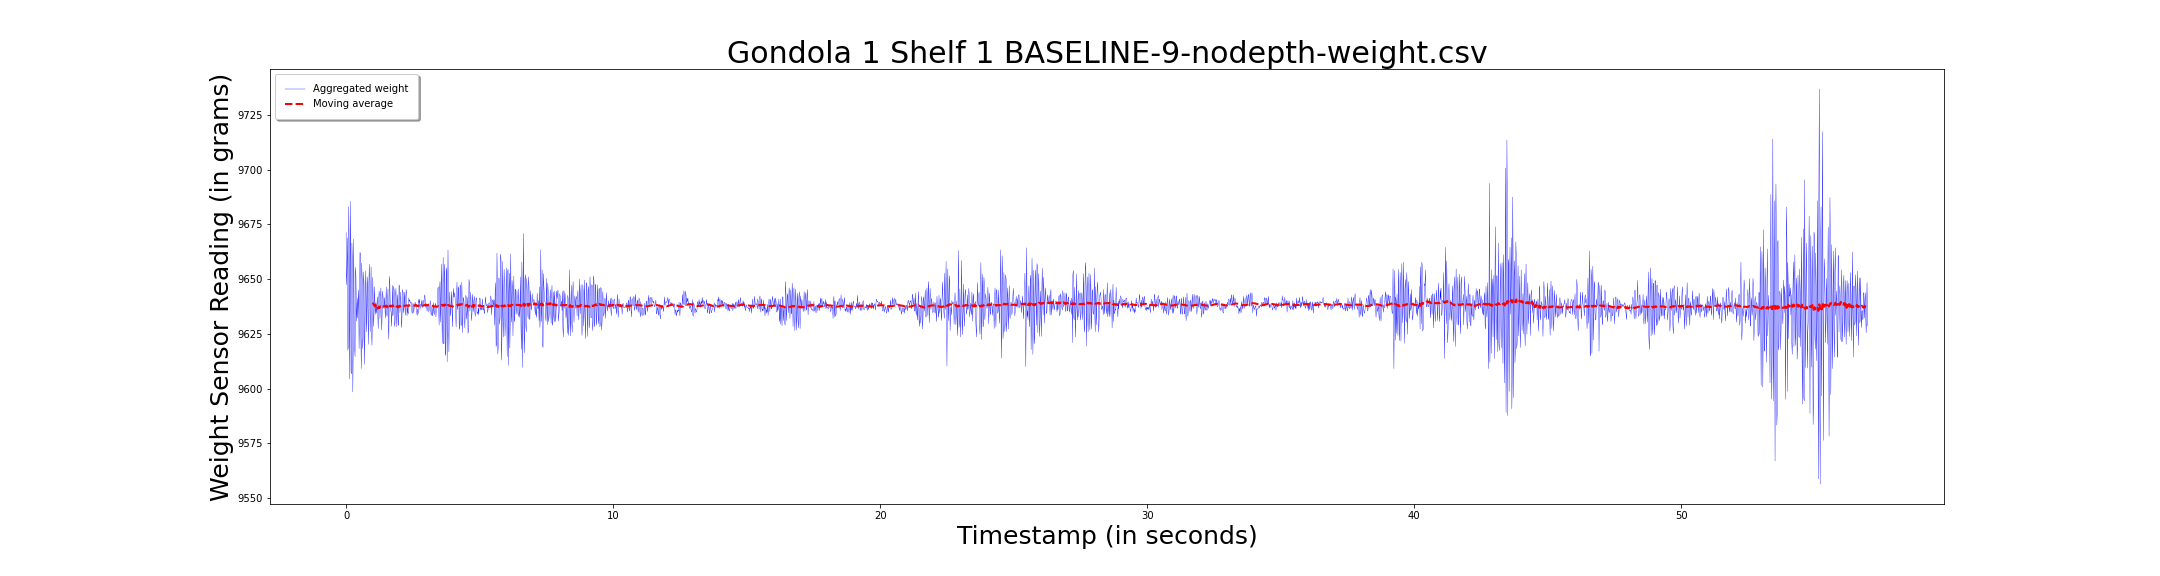
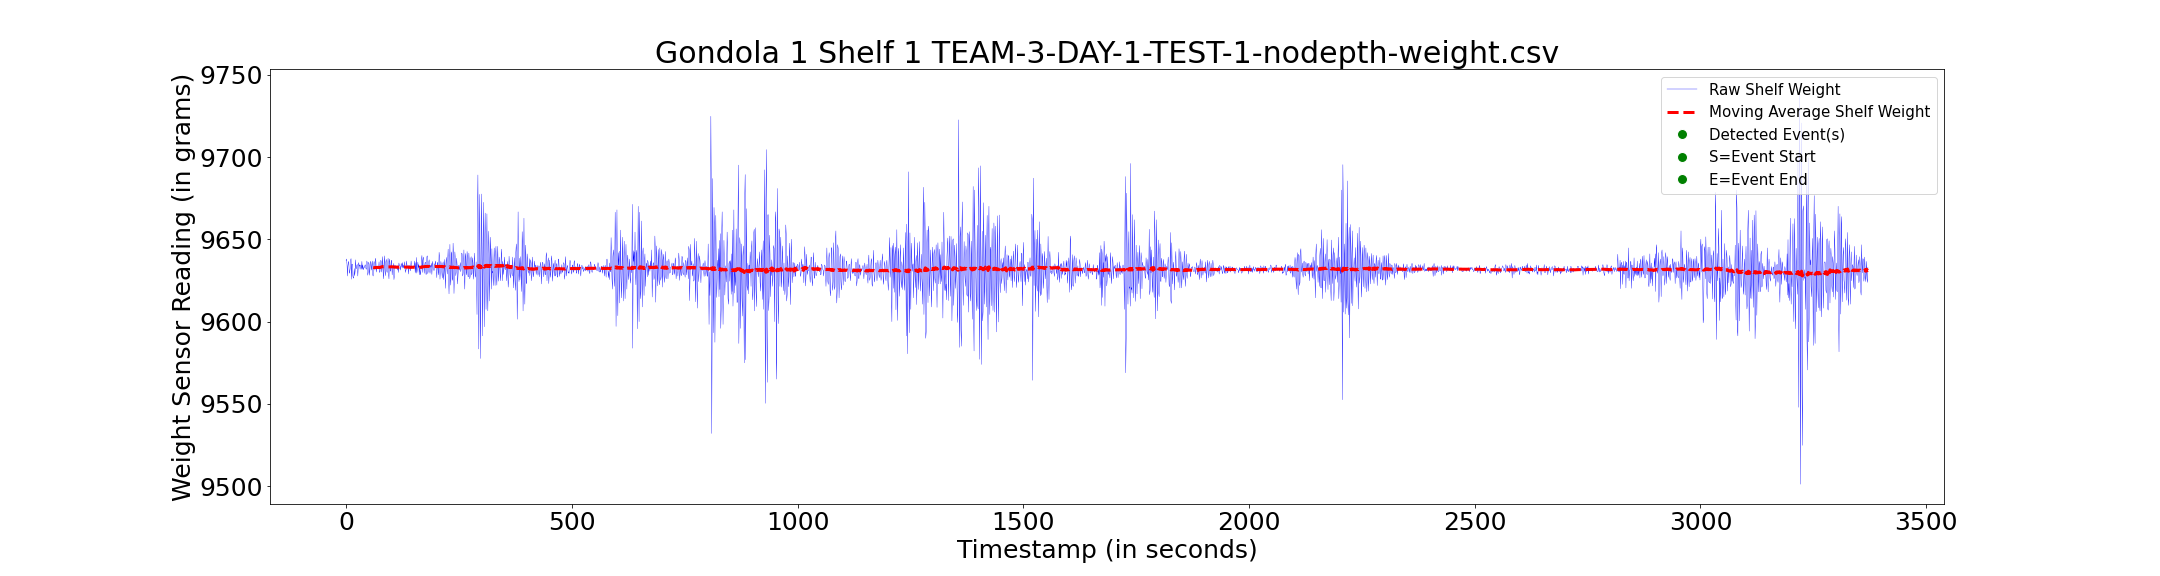
Updates

diff --git a/Plot.py b/Plot.py
@@ -1,7 +1,7 @@
 #!/usr/bin/env python
 # coding: utf-8
 
-# In[ ]:
+# In[1]:
 
 
 #Import library section
@@ -13,9 +13,11 @@ from collections import OrderedDict
 import sys
 import csv
 import os
+from matplotlib.patches import Patch
+from matplotlib.lines import Line2D
 
 
-# In[ ]:
+# In[2]:
 
 
 cwd=os.getcwd()
@@ -29,9 +31,11 @@ for i in files_in_cwd:
             csv_files_in_cwd.append(i)
     except:
         pass
+# csv_files_in_cwd= [i for i in files_in_cwd if(i.split(".")[1]=="csv")]
+# csv_files_in_cwd
 
 
-# In[ ]:
+# In[28]:
 
 
 for i in csv_files_in_cwd:
@@ -89,21 +93,33 @@ for i in csv_files_in_cwd:
                         else:
                             k+=1
                     k=0
-#                     print(event)
+                    
+                    a1="S"
+                    b1="E"
                     x=list(i for i in range(len(g_sh['timestamp'])))
                     y=g_sh['reading']
                     y1=g_sh['ma']
                     
+                    legend_elements = [ Line2D([0],[0], linestyle='-', color='b',lw=.35, label='Raw Shelf Weight'),
+                                       Line2D([0],[0], linestyle='--', color='r',lw=3, label='Moving Average Shelf Weight'),
+                                        Line2D( [0],[0],marker='o', color='w', label='Detected Event(s)',
+                                              markerfacecolor='g', markersize=10),
+                                       Line2D( [0],[0],marker='o', color='w', label='S=Event Start',
+                                              markerfacecolor='g', markersize=10),
+                                       Line2D( [0],[0],marker='o', color='w', label='E=Event End',
+                                              markerfacecolor='g', markersize=10)]
+                    
                     fig=plt.figure(figsize=(30,8))
-                    plt.plot(x,y,'-b',label='Aggregated weight',linewidth=.35)
-                    plt.plot(x,y1,'--r',label="Moving average",linewidth=3)
+                    plt.plot(x,y,'-b',linewidth=.35)
+                    plt.plot(x,y1,'--r',linewidth=3)
                     
                     if len(event)!=0:
                         for i in range(len(event)):
                             x2=list(i for i in range(event[i][1]-30, event[i][2]))
                             y2=list(g_sh.iloc[event[i][1]-30: event[i][2]]['ma'])
-                            plt.plot(x2,y2,'*g',linewidth=.35)
-                    
+                            plt.plot(x2,y2,'.g',linewidth=.35)
+                            plt.annotate(str(a1),xy=(x2[0],y2[0]), fontsize=25)
+                            plt.annotate(str(b1),xy=(x2[len(x2)-1],y2[len(y2)-1]), fontsize=25)   
                     plt.xticks(fontsize=25)
                     plt.yticks(fontsize=25)
                     
@@ -111,8 +127,8 @@ for i in csv_files_in_cwd:
                     plt.ylabel("Weight Sensor Reading (in grams)",fontsize=25)
                     
                     plt.title("Gondola "+str(gondola)+" "+"Shelf "+str(shelf)+" "+str(i),fontsize=30)
-                    plt.legend(fancybox=True, framealpha=1, shadow=True, borderpad=1)
-                    
+#                     plt.legend(fancybox=True, framealpha=1, shadow=True, borderpad=1)
+                    plt.legend(handles=legend_elements, loc='upper right',prop={"size":15})
                     plt.ioff()
                     plt.savefig(str(path_to_file)+"/"+str(gondola)+","+str(shelf)+".png")
                     plt.close(fig)
@@ -120,10 +136,5 @@ for i in csv_files_in_cwd:
                         pass
     except:
         pass
-
-
-# In[ ]:
-
-
 
 
